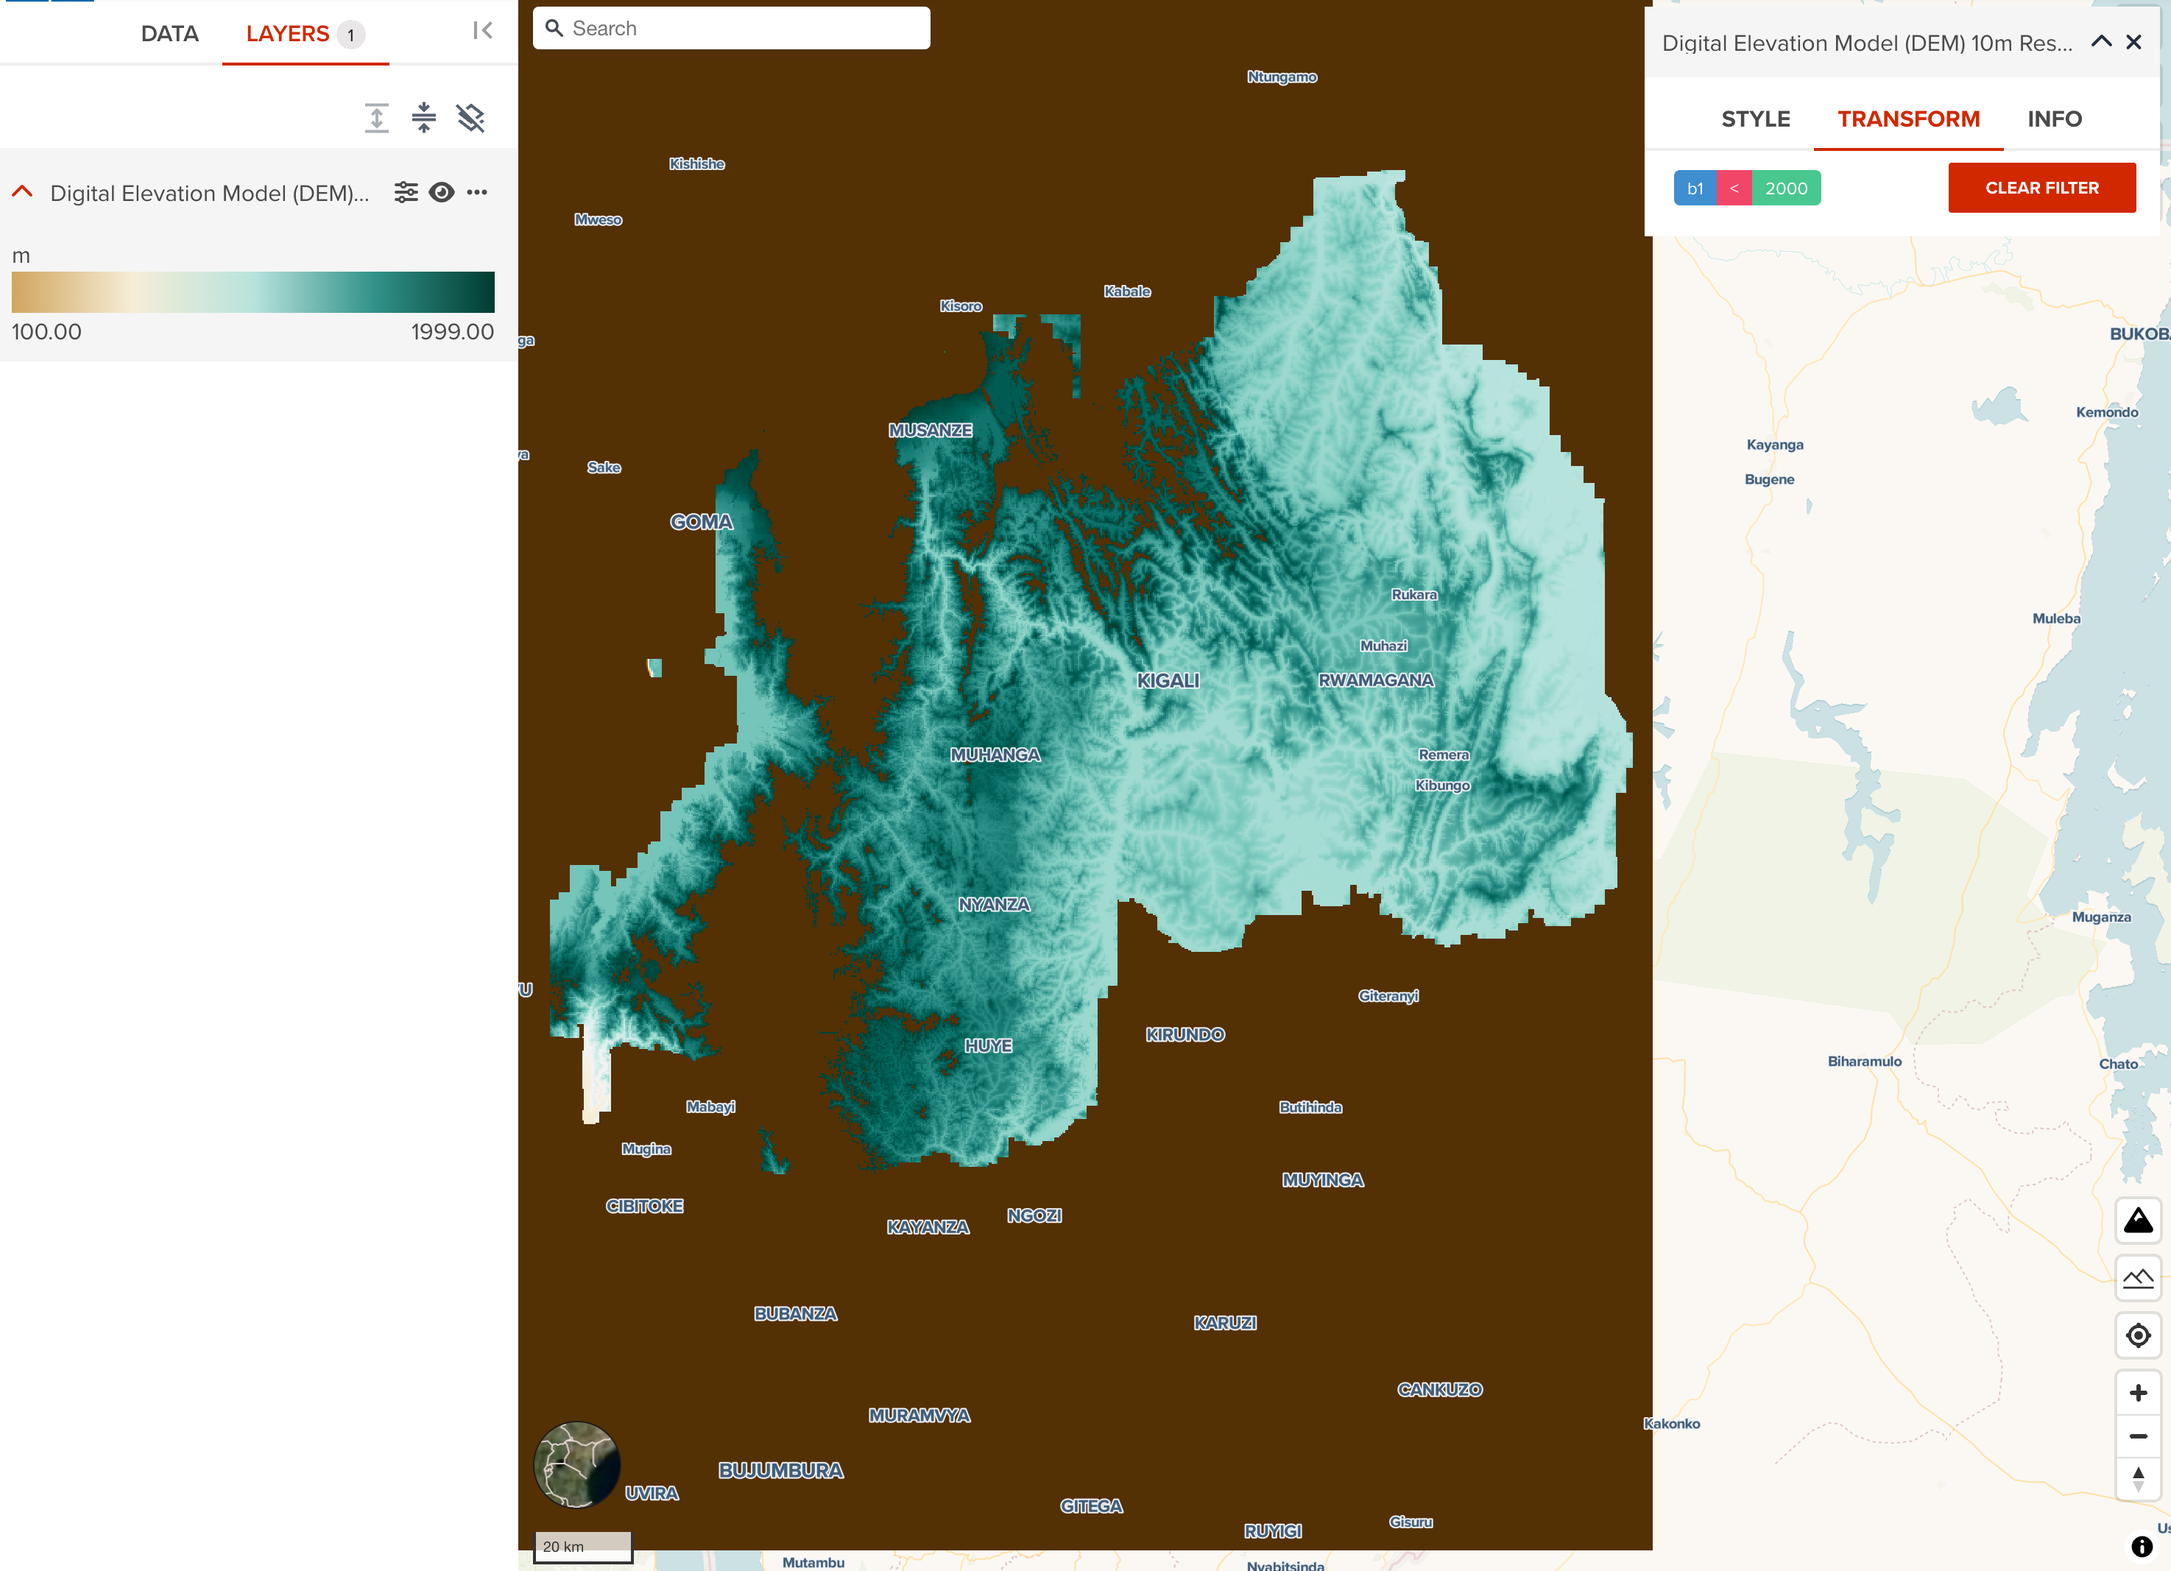
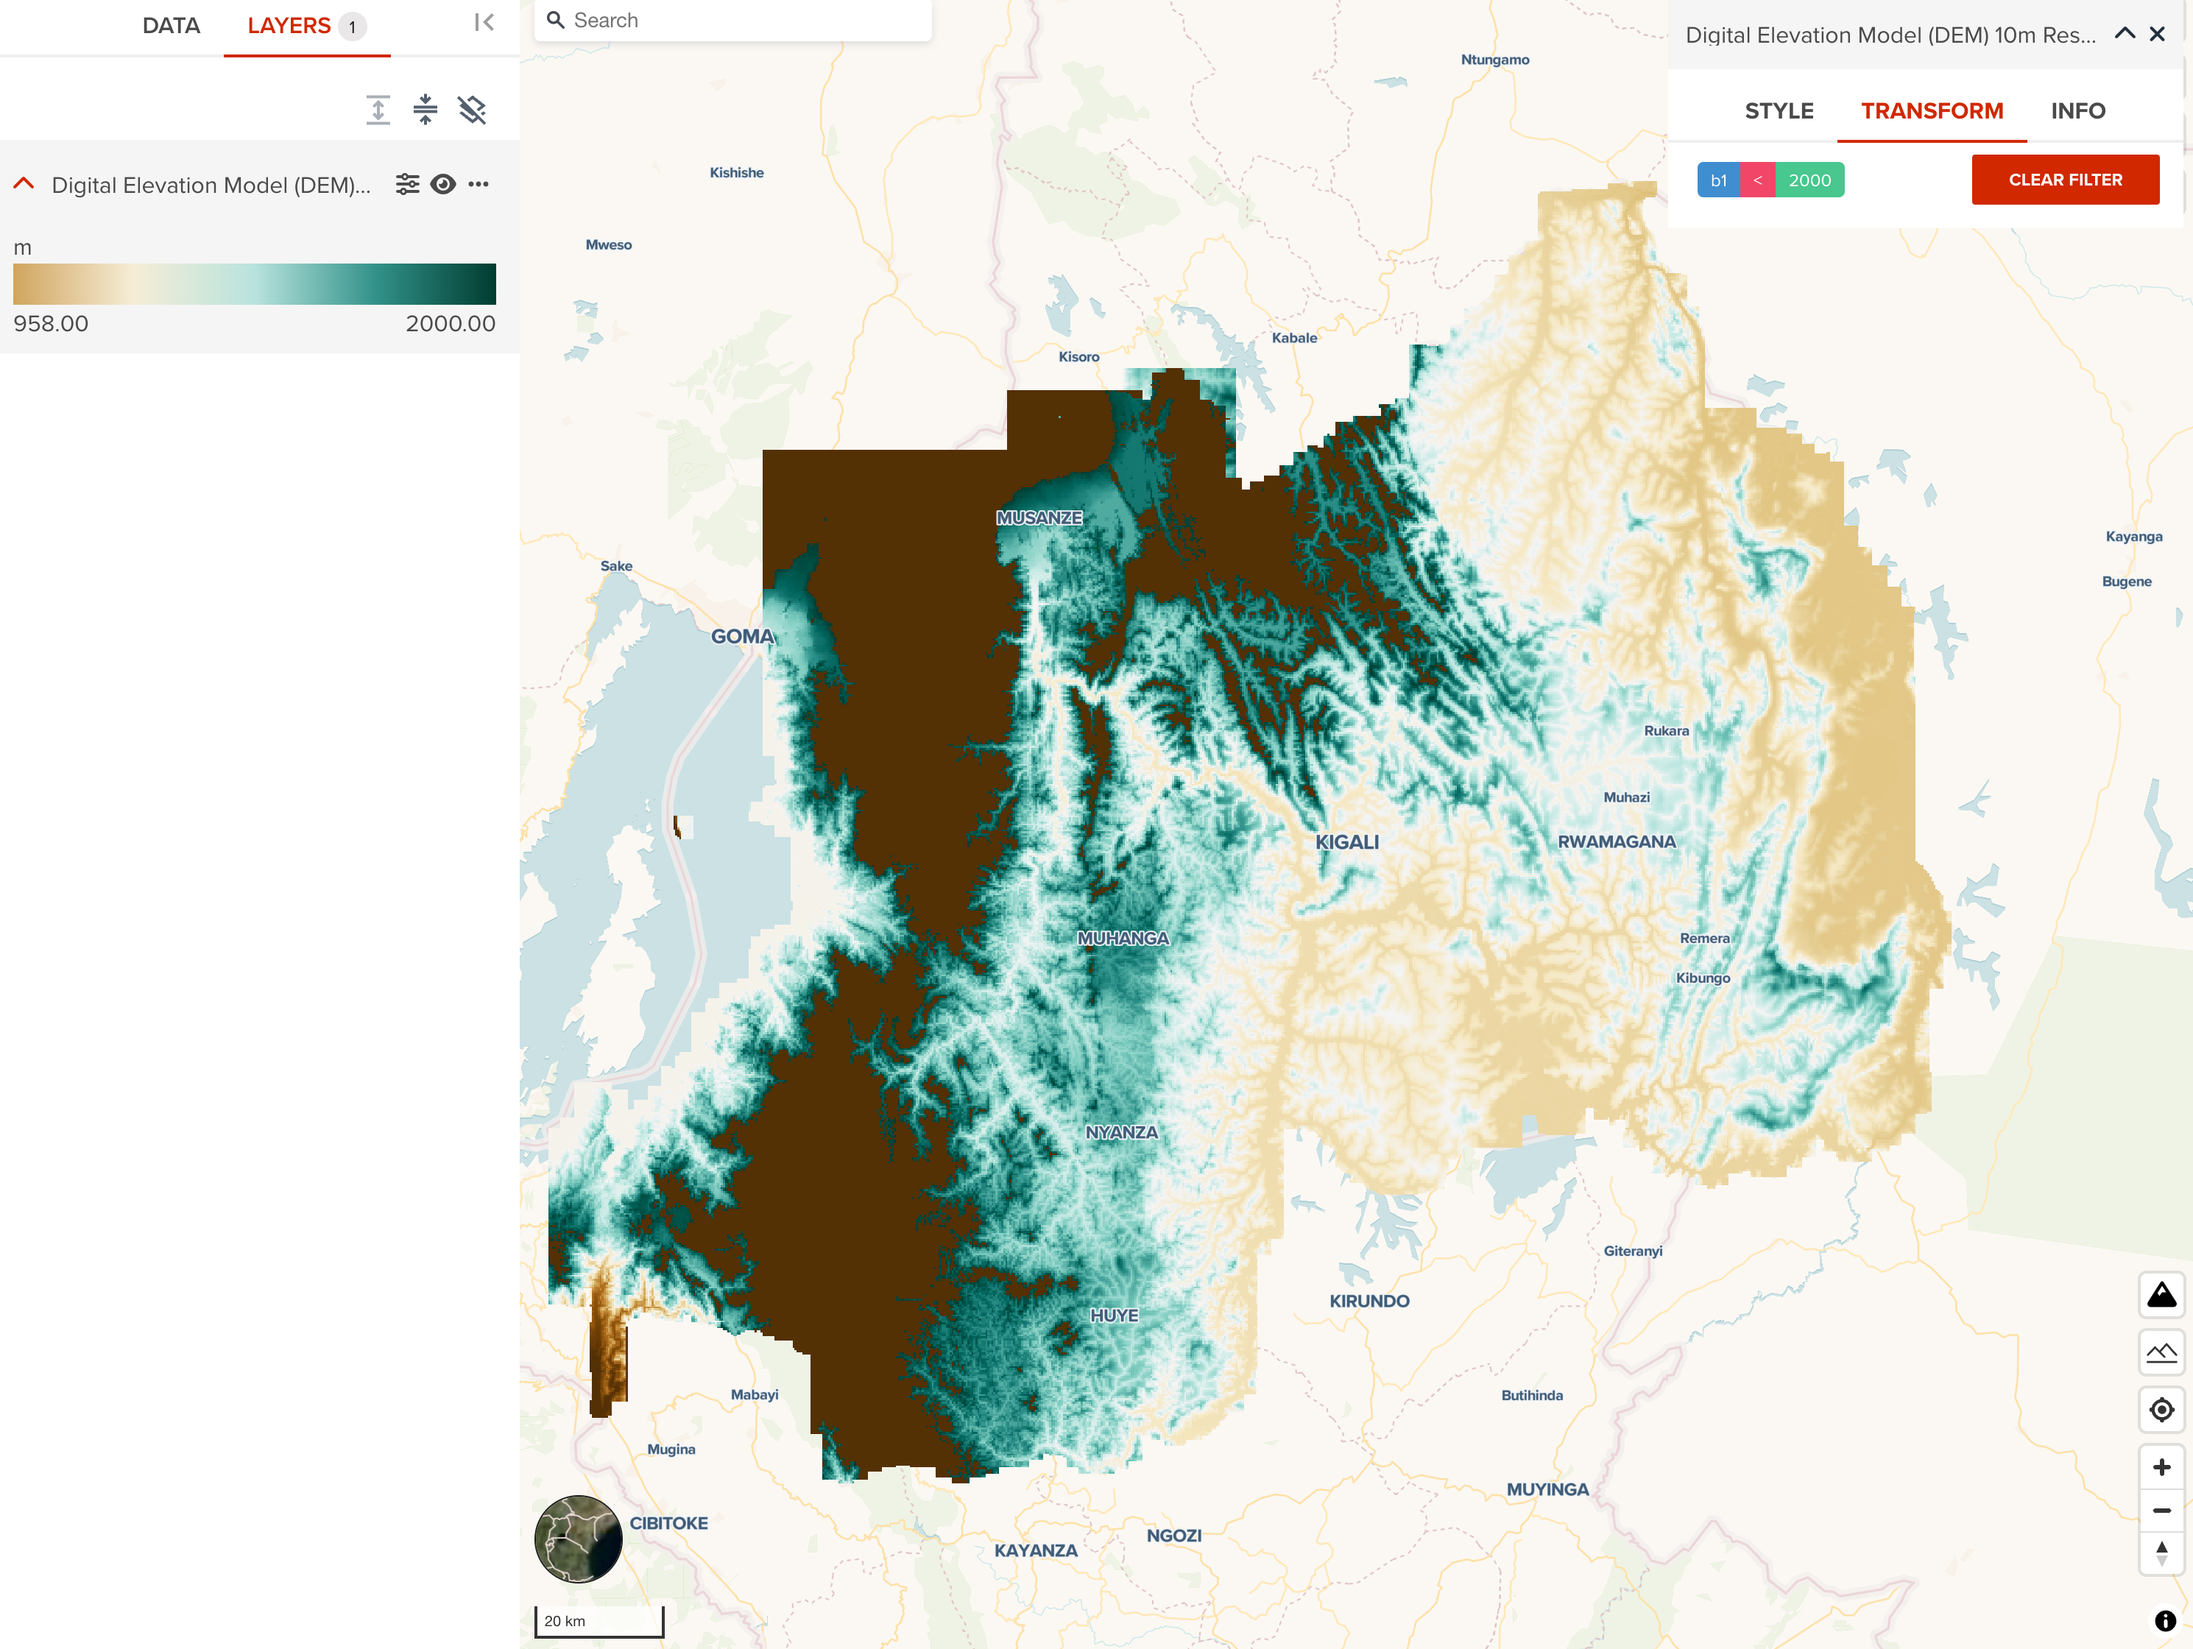
doc: updated raster transform doc

diff --git a/documentation/docs/visualization/visualize_raster.md b/documentation/docs/visualization/visualize_raster.md
@@ -188,12 +188,7 @@ The following figure shows the result after applying the rule which the first ba
   <figcaption>After applying a filter rule in a raster data layer</figcaption>
 </figure>
 
-This raster transform can retain the original colormap after adding new transform rule, but it changes rescale setting from the latest layer statistics. In this example, the pixels which have altitude is less than 2000 use the same colormap with before. But pixels more than 1999m altitude shows dark brown color. To achieve the best result of visualization, you can visit **Rescale** property under **STYLE** tab, and set the appropriate min and max values as well (See the below screenshot which adjusted minimum value from 100m to 1300m).
-
-<figure markdown="span">
-  ![visualize_raster_transform_5.png](../assets/visualization/visualize_raster_transform_5.png)
-  <figcaption>Rescale is adjusted after applying a filter rule in a raster data layer</figcaption>
-</figure>
+This raster transform can retain the original colormap after adding new transform rule, but it changes rescale setting from the latest layer statistics. In this example, the pixels which have altitude is less than 2000 use the same colormap with before. But pixels more than 1999m altitude shows dark brown color. To achieve the best result of visualization, it is recommended to visit [Rescale property](#rescale-minmax-values), and set the appropriate min and max values as well.
 
 ## Next step
 
